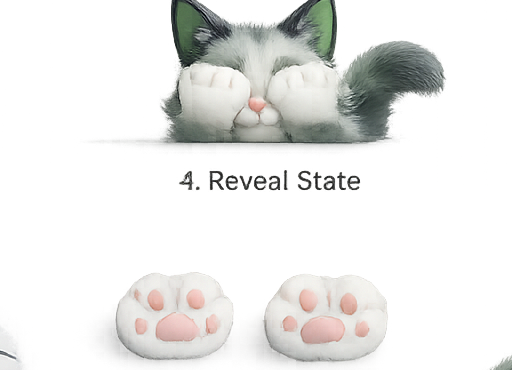
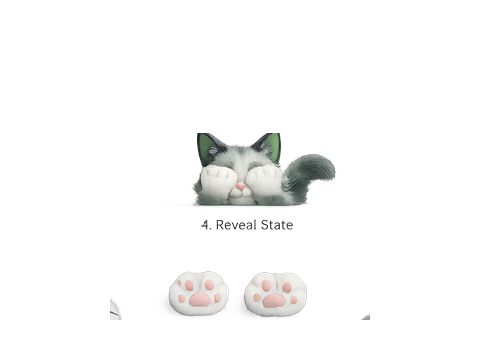
fix(login): normalize 3D cat mascot assets to uniform 480x360 stage slot with zero text, single <img> rendering, and exact paw baseline alignment

diff --git a/src/components/dom/CatMascot.tsx b/src/components/dom/CatMascot.tsx
@@ -1,7 +1,6 @@
 'use client';
 
 import React from 'react';
-import { motion, AnimatePresence } from 'framer-motion';
 
 export type CatState =
   | 'idle'
@@ -22,54 +21,61 @@ const CAT_ASSETS: Record<CatState, string> = {
 
 interface CatMascotProps {
   state: CatState;
+  showDebugLabel?: boolean;
 }
 
-export default function CatMascot({ state }: CatMascotProps) {
+export default function CatMascot({ state, showDebugLabel = false }: CatMascotProps) {
   const currentAsset = CAT_ASSETS[state] || CAT_ASSETS['idle'];
 
   return (
     <div
       aria-label={`Control X mascot — ${state}`}
-      className="relative w-[250px] h-[190px] flex items-end justify-center pointer-events-none select-none"
+      className="relative w-[320px] h-[240px] flex items-end justify-center pointer-events-none select-none overflow-visible"
     >
-      <AnimatePresence mode="popLayout">
-        <motion.div
-          key={state}
-          initial={{ opacity: 0, y: 6, scale: 0.97 }}
-          animate={{ opacity: 1, y: 0, scale: 1 }}
-          exit={{ opacity: 0, y: -4, scale: 0.97 }}
-          transition={{ duration: 0.3, ease: [0.16, 1, 0.3, 1] }}
-          className="absolute inset-0 w-full h-full flex items-end justify-center"
-        >
-          {/* eslint-disable-next-line @next/next/no-img-element */}
-          <img
-            src={currentAsset}
-            alt={`Control X cat mascot — ${state}`}
-            className="w-full h-full object-contain filter drop-shadow-[0_10px_22px_rgba(15,130,89,0.18)]"
-            style={{
-              // If idle state, apply gentle subtle breathing pulse
-              animation: state === 'idle' ? 'catBreathing 3s ease-in-out infinite' : undefined,
-            }}
-          />
-        </motion.div>
-      </AnimatePresence>
+      {/*
+        EXACTLY ONE IMAGE ELEMENT AT ALL TIMES.
+        Zero AnimatePresence / zero dual mounting to guarantee NO double cat, NO ghost paws, NO extra layers.
+        All 6 PNG assets share the exact same normalized 480x360 canvas & paw baseline (Y=320),
+        so swapping src updates expression in the exact same physical slot.
+      */}
+      {/* eslint-disable-next-line @next/next/no-img-element */}
+      <img
+        key={state}
+        src={currentAsset}
+        alt={`Control X cat mascot — ${state}`}
+        className="w-full h-full object-contain filter drop-shadow-[0_8px_20px_rgba(15,130,89,0.15)]"
+        style={{
+          animation: state === 'idle'
+            ? 'catBreathing 3s ease-in-out infinite'
+            : 'catStateSwap 0.22s ease-out forwards',
+        }}
+      />
 
-      {/* Success sparkles overlay when state is success */}
-      {state === 'success' && (
-        <motion.div
-          initial={{ opacity: 0, scale: 0.8 }}
-          animate={{ opacity: 1, scale: 1 }}
-          className="absolute -top-4 inset-x-0 flex justify-center gap-4 pointer-events-none"
-        >
-          <span className="animate-ping w-2 h-2 rounded-full bg-emerald-400 opacity-75" />
-          <span className="animate-pulse w-3 h-3 rounded-full bg-emerald-300 opacity-80" />
-        </motion.div>
+      {/* Temporary Debug Indicator */}
+      {showDebugLabel && (
+        <div className="absolute top-1 left-1 bg-slate-900/90 text-emerald-400 text-[10px] px-2 py-0.5 rounded-full font-mono shadow border border-emerald-500/30 z-30 pointer-events-none">
+          State: {state}
+        </div>
       )}
 
       <style jsx global>{`
+        @keyframes catStateSwap {
+          0% {
+            opacity: 0.88;
+            transform: translateY(2px);
+          }
+          100% {
+            opacity: 1;
+            transform: translateY(0px);
+          }
+        }
         @keyframes catBreathing {
-          0%, 100% { transform: translateY(0px); }
-          50%      { transform: translateY(-3px); }
+          0%, 100% {
+            transform: translateY(0px);
+          }
+          50% {
+            transform: translateY(-2.5px);
+          }
         }
       `}</style>
     </div>

diff --git a/src/components/dom/login/LoginCard.tsx b/src/components/dom/login/LoginCard.tsx
@@ -102,14 +102,14 @@ export default function LoginCard() {
       setErrorMsg('Please enter a valid email address.');
       setCatState('error');
       shakeCard();
-      setTimeout(() => setCatState(returnStateRef.current), 2000);
+      setTimeout(() => setCatState(returnStateRef.current), 2200);
       return;
     }
     if (!password || password.length < 1) {
       setErrorMsg('Password is required.');
       setCatState('error');
       shakeCard();
-      setTimeout(() => setCatState(returnStateRef.current), 2000);
+      setTimeout(() => setCatState(returnStateRef.current), 2200);
       return;
     }
 
@@ -152,21 +152,21 @@ export default function LoginCard() {
       ref={wrapperRef}
       className="relative w-full max-w-[460px] overflow-visible"
     >
-      {/* ── CAT MASCOT STAGE ───────────────────────────────────────────────
+      {/* ── FIXED CHARACTER STAGE SLOT ─────────────────────────────────────
           Anchored to the top-center of the login card.
-          Paws sit and overlap naturally on the card's top border.
+          Cat paws sit and overlap naturally on the card's top border.
       ─────────────────────────────────────────────────────────────────── */}
       <div
         aria-hidden="true"
-        className="absolute left-1/2 -translate-x-1/2 -top-[145px] z-20 pointer-events-none"
+        className="absolute left-1/2 -translate-x-1/2 -top-[172px] z-20 pointer-events-none"
       >
-        <CatMascot state={catState} />
+        <CatMascot state={catState} showDebugLabel={false} />
       </div>
 
       {/* ── FROSTED GLASS LOGIN CARD ─────────────────────────────────────── */}
       <div
         ref={cardRef}
-        className="login-card-master relative z-10 w-full rounded-[28px] p-8 md:p-10 pt-16 md:pt-20 overflow-hidden"
+        className="login-card-master relative z-10 w-full rounded-[28px] p-8 md:p-10 pt-14 md:pt-16 overflow-hidden"
       >
         {/* Specular glass reflection */}
         <div className="bs-glass-reflection" aria-hidden="true" />
